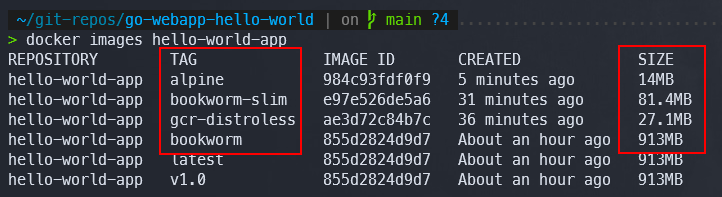
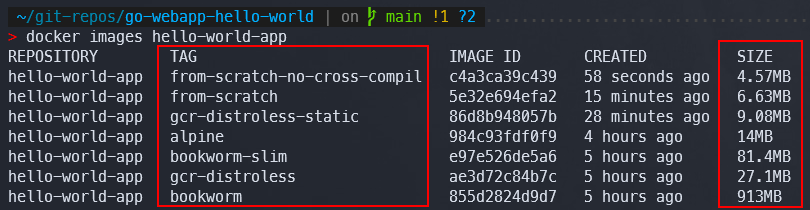
Add from scratch image

Changed region(s): [[0.0, 0.0305, 1.0, 1.0]]

diff --git a/README.md b/README.md
@@ -16,3 +16,4 @@ Drawbacks:
 References:
 - [Containers Are Not VMs! Which Base Container Docker Images Should We Use?](https://www.youtube.com/watch?v=82ZCJw9poxM)
 - [Google "Distroless" images](https://github.com/GoogleContainerTools/distroless)
+- [Create the smallest and secured golang docker image based on scratch](https://chemidy.medium.com/create-the-smallest-and-secured-golang-docker-image-based-on-scratch-4752223b7324)
